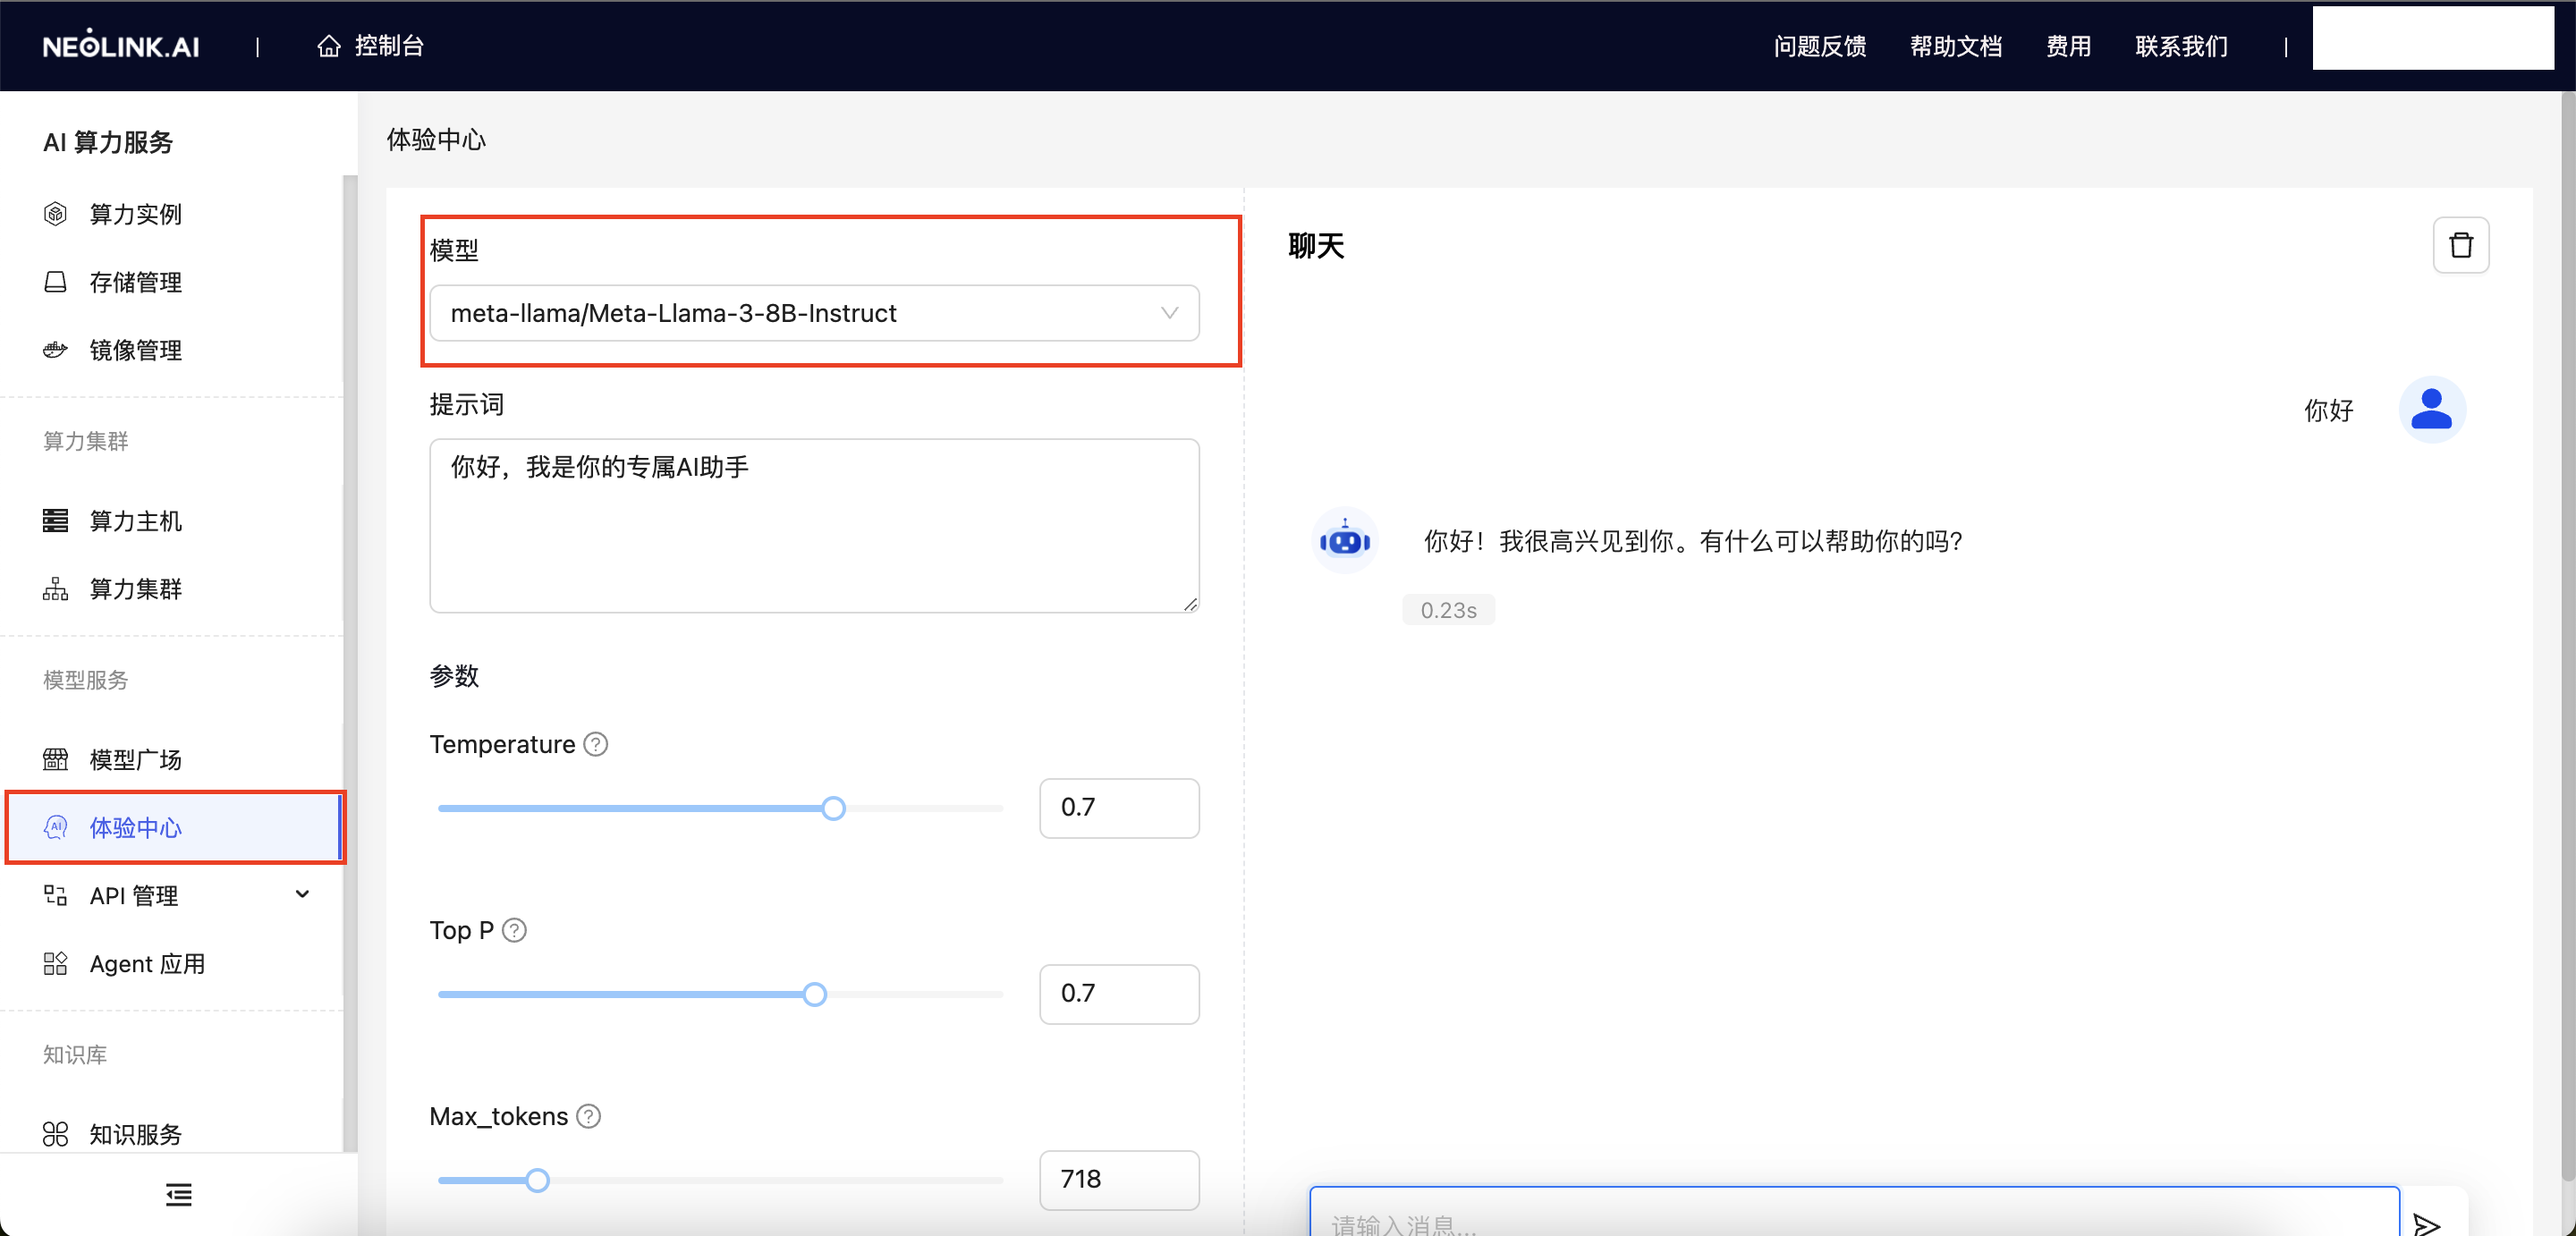
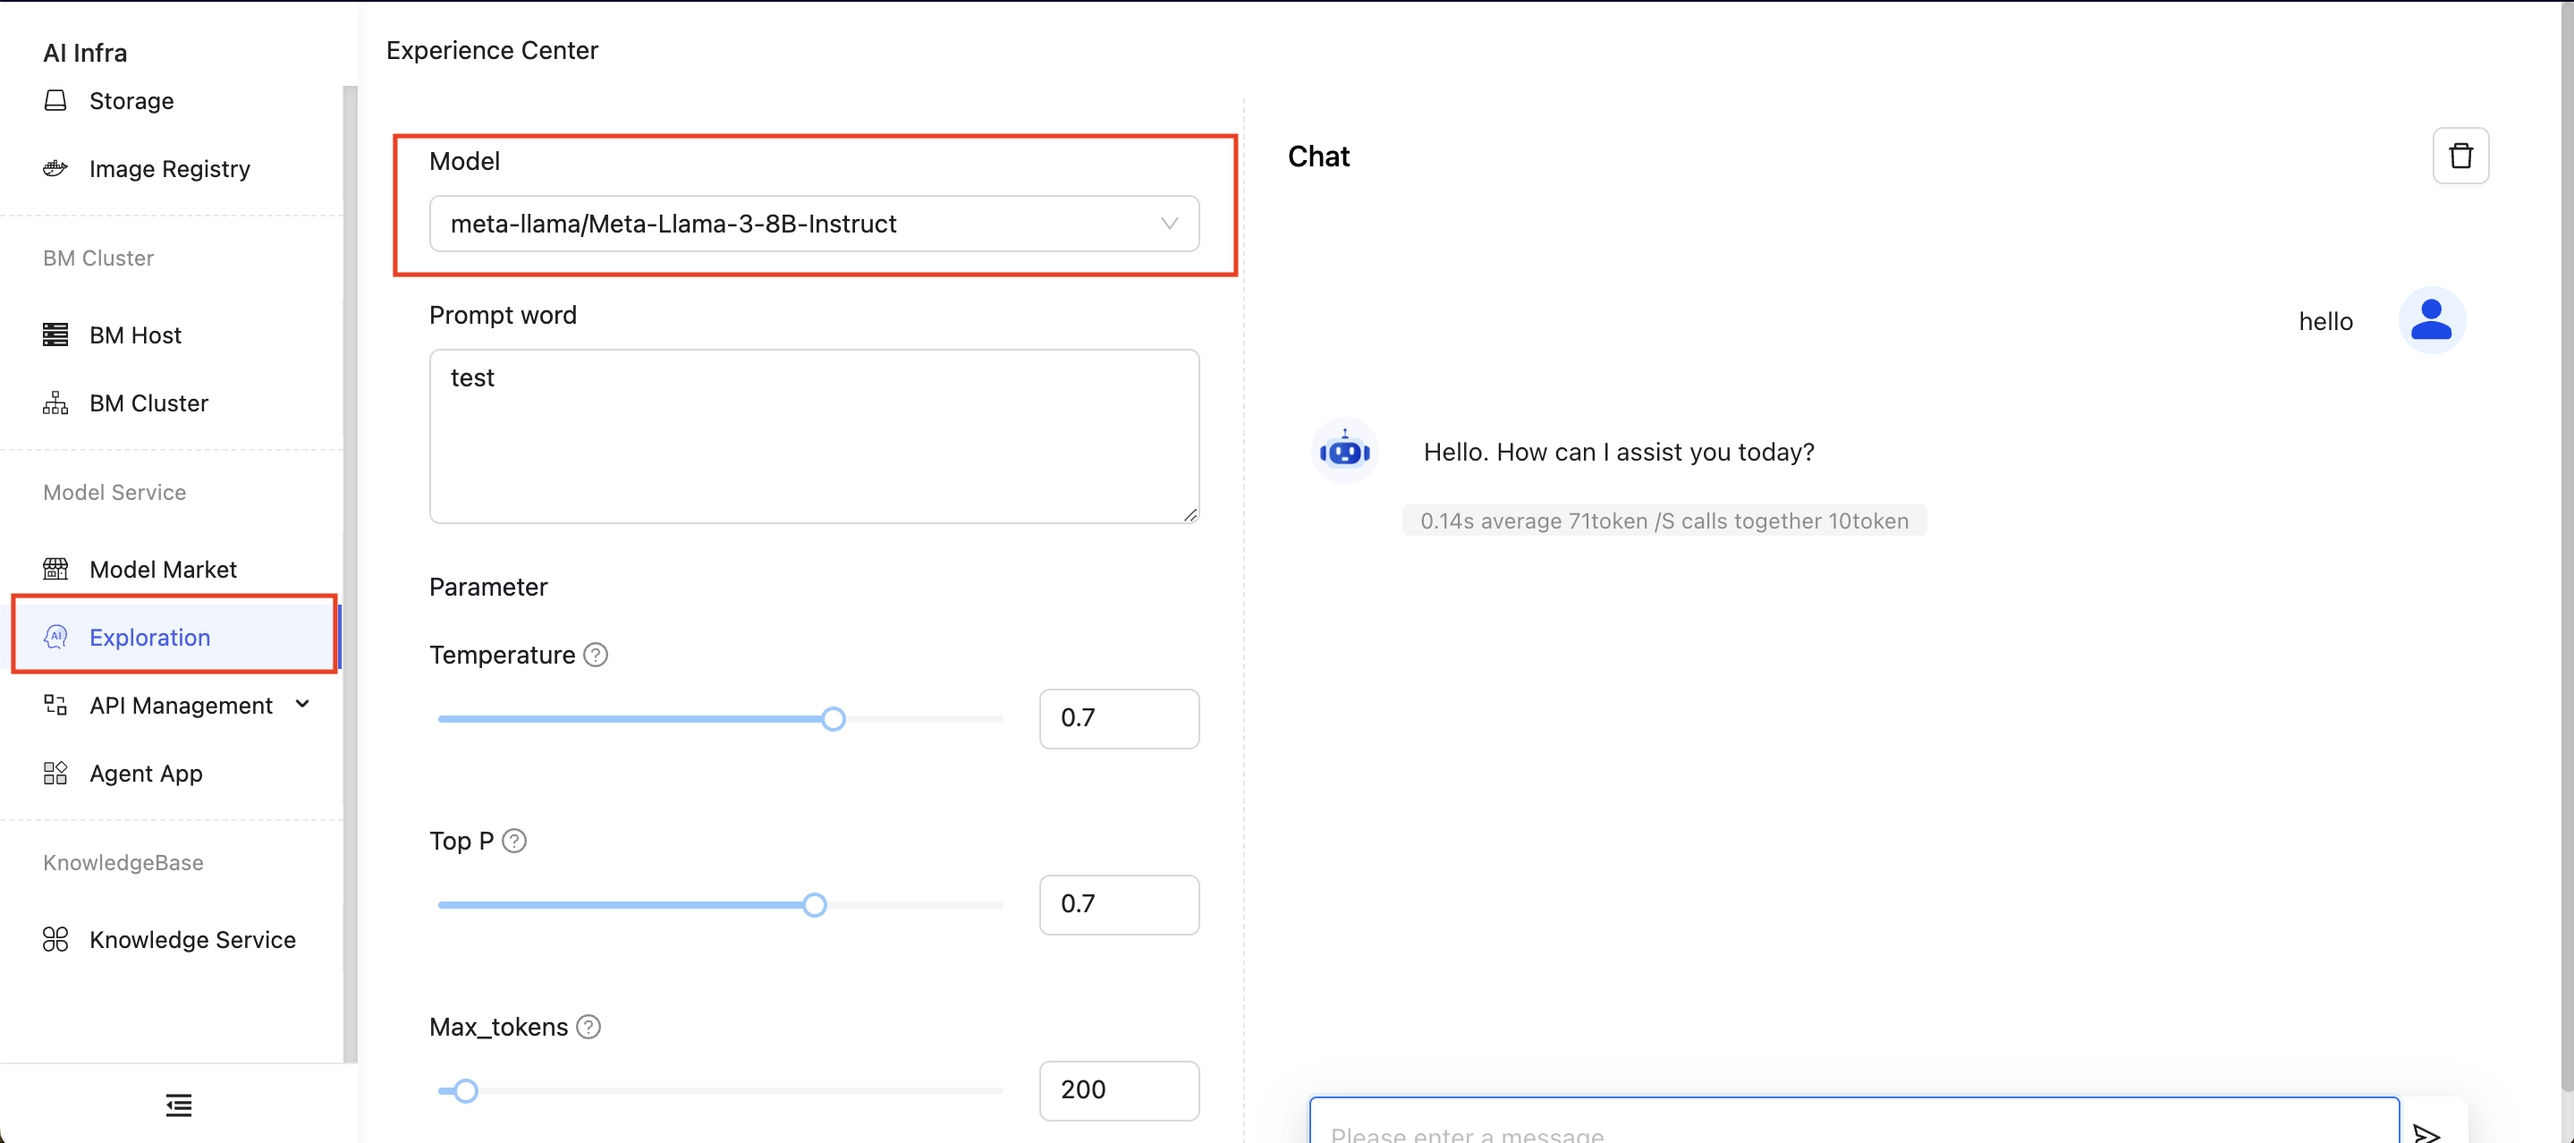
更新一些国际站内容

diff --git a/docs/DataStorage/overview.md b/docs/DataStorage/overview.md
@@ -15,4 +15,4 @@ To check disk usage within the instance, execute the following command in the te
 | ------------ | -------------------------------------------------------------------------------- | ------------------ | ----------- | ------------------------------ | -------------------------------------------------------------------------------------------------------------------------------------------------------------------------------------------------------------------------------------------------------------------------------------------------------------------------------------------------------------------- |
 | System Disk  | Root directory `/` and all paths under it (excluding special paths listed below) | 30GB               | High        | High-performance local storage | Data will not be lost when the instance is shut down. System dependencies and Python packages are typically installed on the system disk, and small-capacity data, such as code, can also be stored here. You can choose to save the existing environment and data as an image when the instance is shut down, allowing the data to be restored on the next startup. |
 | Data Disk    | Customizable, recommended to set as `/root/data`                                 | Starting from 50GB | Standard    | Shared storage                 | Can be mounted across different compute instances.                                                                                                                                                                                                                                                                                                                   |
-| File Storage | User-defined mount paths in **Storage Management**                               | Custom             | Standard    | Shared storage                 | Can be mounted across different compute instances. **(Not yet available)**                                                                                                                                                                                                                                                                                           |
+| File Storage | User-defined mount paths in **Storage**                                          | Custom             | Standard    | Shared storage                 | Can be mounted across different compute instances.                                                                                                                                                                                                                                                                                                                   |

diff --git a/docs/ContainerInstance/instance monitoring.md b/docs/ContainerInstance/instance monitoring.md
@@ -18,16 +18,16 @@ In the storage information section, you can view detailed information about the 
 
 <img src={require('../../static/en-img/monitoring/monitoring-2.png').default} alt="Storage" style={{width: '1000px', height: 'auto'}} />
 
-### Routing Configuration
+### Configure-Route
 
-On the routing configuration page, you can add custom external service configurations to expose services running inside the container to external networks.
+On the Configure-Route page, you can add custom external service configurations to expose services running inside the container to external networks.
 
 <img src={require('../../static/en-img/monitoring/monitoring-8.png').default} alt="Routing Configuration" style={{width: '1000px', height: 'auto'}} />
 <img src={require('../../static/en-img/monitoring/monitoring-9.png').default} alt="Routing Configuration" style={{width: '1000px', height: 'auto'}} />
 
-### Monitoring
+### Monitor
 
-By selecting the compute instance, you can access the monitoring page to view various metrics, including data disk usage, GPU and CPU utilization, GPU memory usage, memory consumption, power consumption, and temperature.
+By selecting the compute instance, you can access the monitor page to view various metrics, including data disk usage, GPU and CPU utilization, GPU memory usage, memory consumption, power consumption, and temperature.
 
 <img src={require('../../static/en-img/monitoring/monitoring-7.png').default} alt="Monitoring" style={{width: '1000px', height: 'auto'}} />
 
@@ -39,14 +39,14 @@ In the instance details page, select **Logs** to access the container instance l
 
 <img src={require('../../static/en-img/monitoring/monitoring-3.png').default} alt="Logs" style={{width: '1000px', height: 'auto'}} />
 
-### Events
+### Event
 
-In the Events section, you can view the events related to the container instance along with their timestamps.
+In the Event section, you can view the events related to the container instance along with their timestamps.
 
 <img src={require('../../static/en-img/monitoring/monitoring-4.png').default} alt="Events" style={{width: '1000px', height: 'auto'}} />
 
-### Processes
+### Process
 
-In the **Processes** section, you can view information about the current container’s processes, including CPU usage, physical memory, and virtual memory.
+In the **Process** section, you can view information about the current container’s processes, including CPU usage, physical memory, and virtual memory.
 
 <img src={require('../../static/en-img/monitoring/monitoring-5.png').default} alt="Processes" style={{width: '1000px', height: 'auto'}} />

diff --git a/docs/APIDocs/power_api.md b/docs/APIDocs/power_api.md
@@ -12,11 +12,11 @@ Select **API Credentials** from the dropdown menu in the upper-right corner of t
 
 <img src={require('../../static/en-img/apikey/token-1.png').default} alt="Get Token" style={{width: '800px', height: 'auto'}} />
 
-Click **New Token**, enter a custom token name, and the default validity period is 3650 days, which can be adjusted as needed.
+Click **Add Token**, enter a custom token name, and the default validity period is 3650 days, which can be adjusted as needed.
 
 <img src={require('../../static/en-img/apikey/token-2.png').default} alt="Get Token" style={{width: '800px', height: 'auto'}} />
 
-After clicking **Confirm**, the newly generated token will appear in the list. Please note that the token is only generated once, so be sure to copy and save it properly! If the token is lost, you can create a new one or **regenerate** it.
+After clicking **OK**, the newly generated token will appear in the list. Please note that the token is only generated once, so be sure to copy and save it properly! If the token is lost, you can create a new one or regenerate it.
 
 <img src={require('../../static/en-img/apikey/token-3.png').default} alt="Get Token" style={{width: '800px', height: 'auto'}} />
 

diff --git a/docs/QuickStart/instance getstarted.md b/docs/QuickStart/instance getstarted.md
@@ -1,7 +1,7 @@
 ---
 sidebar_position: 1
-title: Using Compute Instances
-sidebar_label: Using Compute Instances
+title: Using GPU Instance
+sidebar_label: Using GPU Instance
 ---
 
 ## Create an Instance
@@ -11,7 +11,7 @@ Go to the Overview page, navigate to **GPU Instance** in the sidebar, and click 
 
 ## Renting an Instance
 
-On the **Create Instance** page, select the **Region**, **Billing Method** (pay-as-you-go, daily, weekly, or monthly), **GPU Model**, **Cards**, and **GPU Specification**. Choose the **Image** (pre-installed with different deep learning frameworks), and then click **Create**. If you need more disk space to store data, set the desired expansion size.
+On the **Create Instance** page, select the **Region**, **Payment Method** (pay-as-you-go, daily, weekly, or monthly), **GPU Model**, **Cards**, and **GPU Specification**. Choose the **Image** (pre-installed with different deep learning frameworks), and then click **Create**. If you need more disk space to store data, set the desired expansion size.
 
 <img src={require('../../static/en-img/getstarted/getstarted-create-instance3.png').default} alt="Rent Instance" style={{width: '1000px', height: 'auto'}} />
 

diff --git a/docs/RechargeBilling/coupon.md b/docs/RechargeBilling/coupon.md
@@ -8,7 +8,7 @@ Neolink.AI currently offers two types of coupons: Compute Coupons and Vouchers. 
 
 **NOTE**: Compute Coupons and Vouchers cannot be used if there are outstanding payments.
 
-## Compute Coupons
+## Trial Coupons
 
 After completing the real-name authentication process, new users will receive free compute trial coupons. Please note that these trial coupons come with an expiration date. Users can check the details and usage conditions of their compute coupons on the Coupons page.
 
@@ -20,7 +20,7 @@ Click the **Use Now** button next to the compute coupon to be redirected to the 
 
 **NOTE**: After the coupon expires, regular pay-as-you-go pricing will apply. If you do not wish to continue using the instance, simply shut it down before the expiration date.
 
-## Vouchers
+## Cash Vouchers
 
 Users who make a one-time deposit of a certain amount will receive vouchers. Additionally, vouchers distributed during promotional events can be redeemed using a voucher code. Vouchers can be applied to all Neolink.AI platform products. Voucher details are available on the Coupons page.
 

diff --git a/docs/ModelPlayground/playground.md b/docs/ModelPlayground/playground.md
@@ -1,12 +1,12 @@
 ---
 sidebar_position: 6
-title: experiment
-sidebar_label: experiment
+title: playground
+sidebar_label: playground
 ---
 
 Exploration is an online interactive platform where users can input data and observe model outputs directly without programming, ideal for quickly testing and understanding model performance.
 
-1. Go to the **Exploration** Center in the left sidebar. On the **Exploration** Center page, you can see the available models, and filter them by Model.
+1. Go to the **playground** Center in the left sidebar. On the **playground** Center page, you can see the available models, and filter them by Model.
 
 <img src={require('../../static/en-img/experience/1.png').default} alt="体验中心" style={{width: '1000px', height: 'auto'}} />
 

diff --git a/docs/intro.md b/docs/intro.md
@@ -7,7 +7,9 @@ sidebar_label: Introduction
 
 ## Neolink.AI
 
-Neolink.AI is a comprehensive platform that integrates computing power, data, knowledge, models, and enterprise applications. It offers cost-effective GPU resources and an all-in-one data and AI platform service for the next generation of AI-native applications.
+Neolink.AI is a comprehensive platform that integrates GPU, data, knowledge, models, and enterprise applications. It offers cost-effective GPU resources and an all-in-one data and AI platform service for the next generation of AI-native applications.
+
+Visit the neolink-ai.com website (https://neolink-ai.com/en) and click “Console” in the top right corner to register.
 
 ### Use Cases
 

diff --git a/docs/DataStorage/createstorage.md b/docs/DataStorage/createstorage.md
@@ -8,7 +8,7 @@ Storage management provides network-shared storage that can be mounted to differ
 
 ## Add Storage
 
-Navigate to the **Compute Instances** page, click on a specific instance, and under **Storage**, you can add storage and specify the path where the storage will be mounted in the instance. Once confirmed, the storage will be accessible through the specified mount path within the instance.
+Navigate to the **GPU Instance** page, click on a specific instance, and under **Storage**, you can add storage and specify the path where the storage will be mounted in the instance. Once confirmed, the storage will be accessible through the specified mount path within the instance.
 
 ## Shared Storage
 

diff --git a/docs/ConfigureEnvironment/image.md b/docs/ConfigureEnvironment/image.md
@@ -20,7 +20,7 @@ If you have configured an instance environment and wish to reuse it when switchi
 
 ### Save Image
 
-In the compute instance list, select **Save Image** on the right side of the instance details. This will save the instance environment as a private image, including all files on the system disk. Note that data disks will not be saved.
+In the compute instance list, select **Save-to-image** on the right side of the instance details. This will save the instance environment as a private image, including all files on the system disk. Note that data disks will not be saved.
 
 **NOTE**: Only running instances can be saved as images.
 

diff --git a/docs/ComputingPowerCluster/create_cluster.md b/docs/ComputingPowerCluster/create_cluster.md
@@ -8,7 +8,7 @@ The platform offers dedicated host leasing services, including models such as H2
 
 ## Create a Cluster
 
-Navigate to **BM Cluster** from the left sidebar, click **Create Cluster**, select the cluster network, GPU model, and cluster name, and click **Confirm**.
+Navigate to **BM Cluster** from the left sidebar, click **Create Cluster**, select the cluster network, GPU model, and cluster name, and click **OK**.
 
 <img src={require('../../static/en-img/powercluster/create-cluster-1.png').default} alt="Create Cluster" style={{width: '1000px', height: 'auto'}} />
 

diff --git a/docs/ContainerInstance/create instance.md b/docs/ContainerInstance/create instance.md
@@ -1,7 +1,7 @@
 ---
 sidebar_position: 1
-title: Create Compute Instance
-sidebar_label: Create Compute Instance
+title: Create GPU Instance
+sidebar_label: Create GPU Instance
 ---
 
 Compute instances are commonly used for algorithm development and model fine-tuning. If you are working with a small dataset, you can choose a single-GPU instance or an 8-GPU full machine instance. The platform provides local data disks and associated file storage. After completing your development or fine-tuning using the terminal, you can download your results and release the compute instance.

diff --git a/docs/ModelPlayground/create API KEY.md b/docs/ModelPlayground/create API KEY.md
@@ -6,7 +6,7 @@ sidebar_label: Create API Key
 
 API Keys allow access to all models in the Model Hub. API Keys are valid long-term, so please do not share the key in public environments and store it securely. Follow the steps below to create an API Key:
 
-1. Go to **API Credentials** in the left sidebar and click **API KEY**.  
+1. Go to **API Management** in the left sidebar and click **API KEY**.  
    <img src={require('../../static/en-img/apikey/apikey1.png').default} alt="Model Hub" style={{width: '1000px', height: 'auto'}} />
 
 2. Click **Create API KEY**.  
